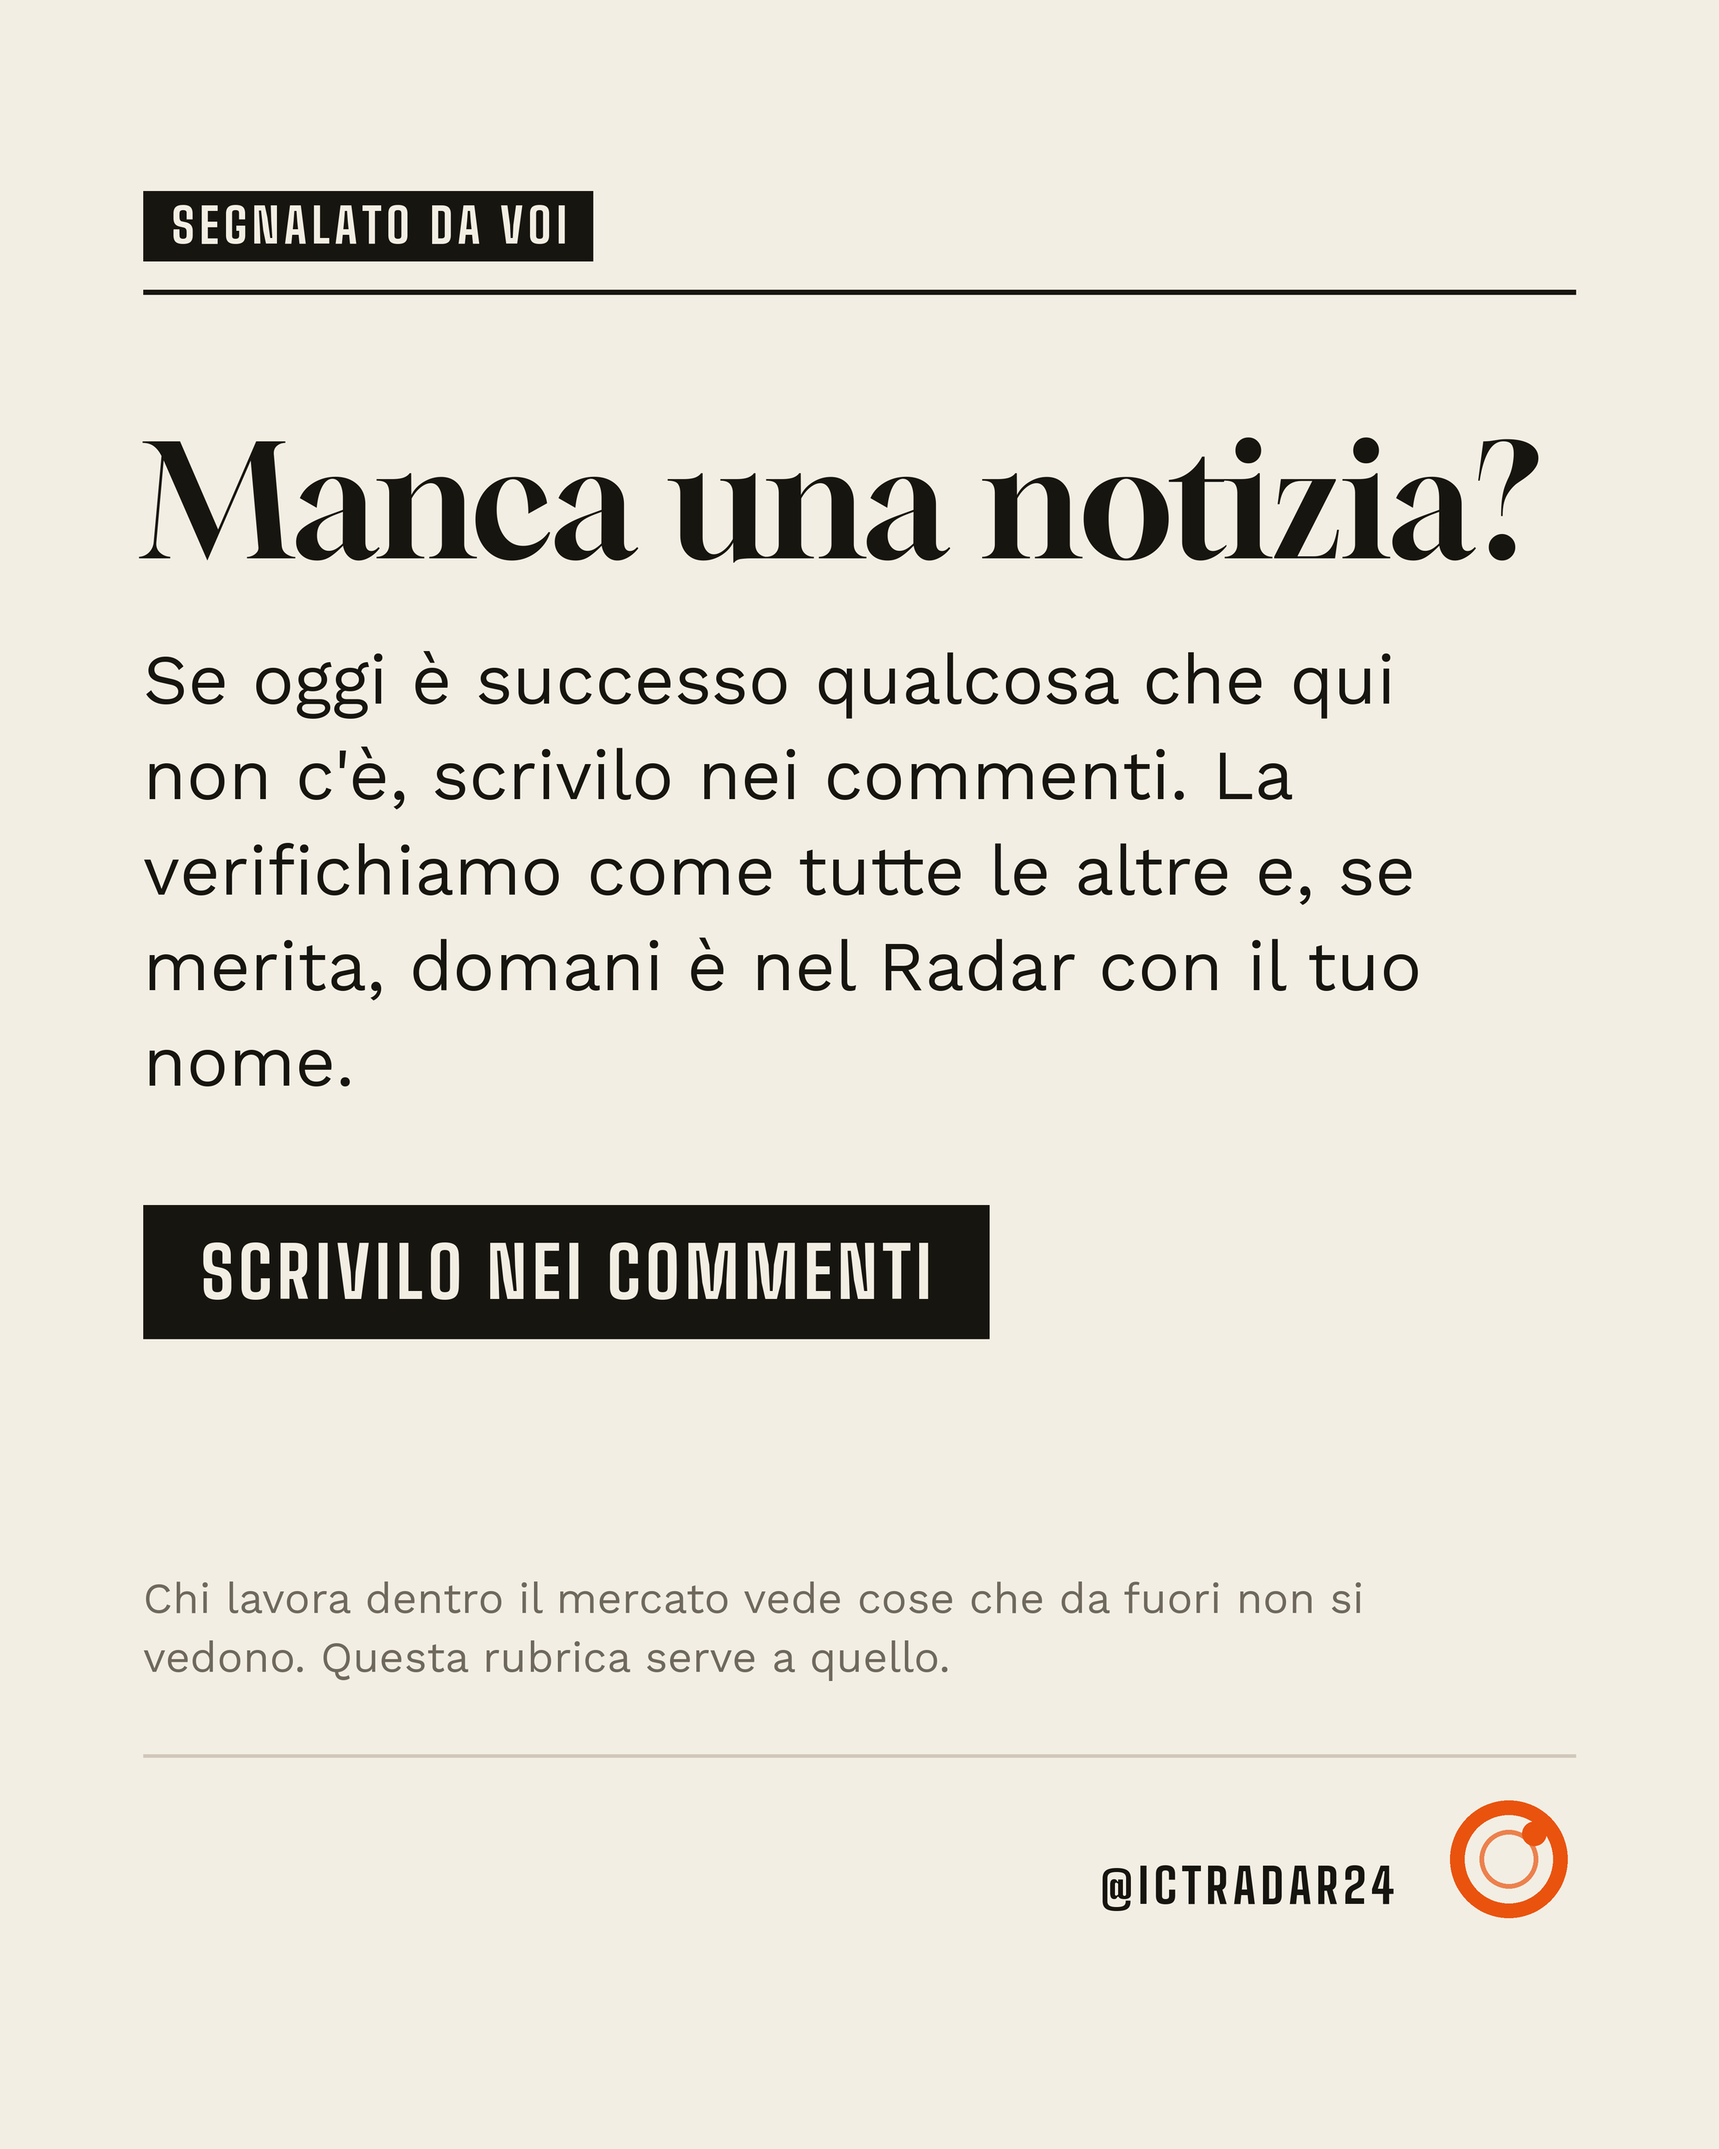
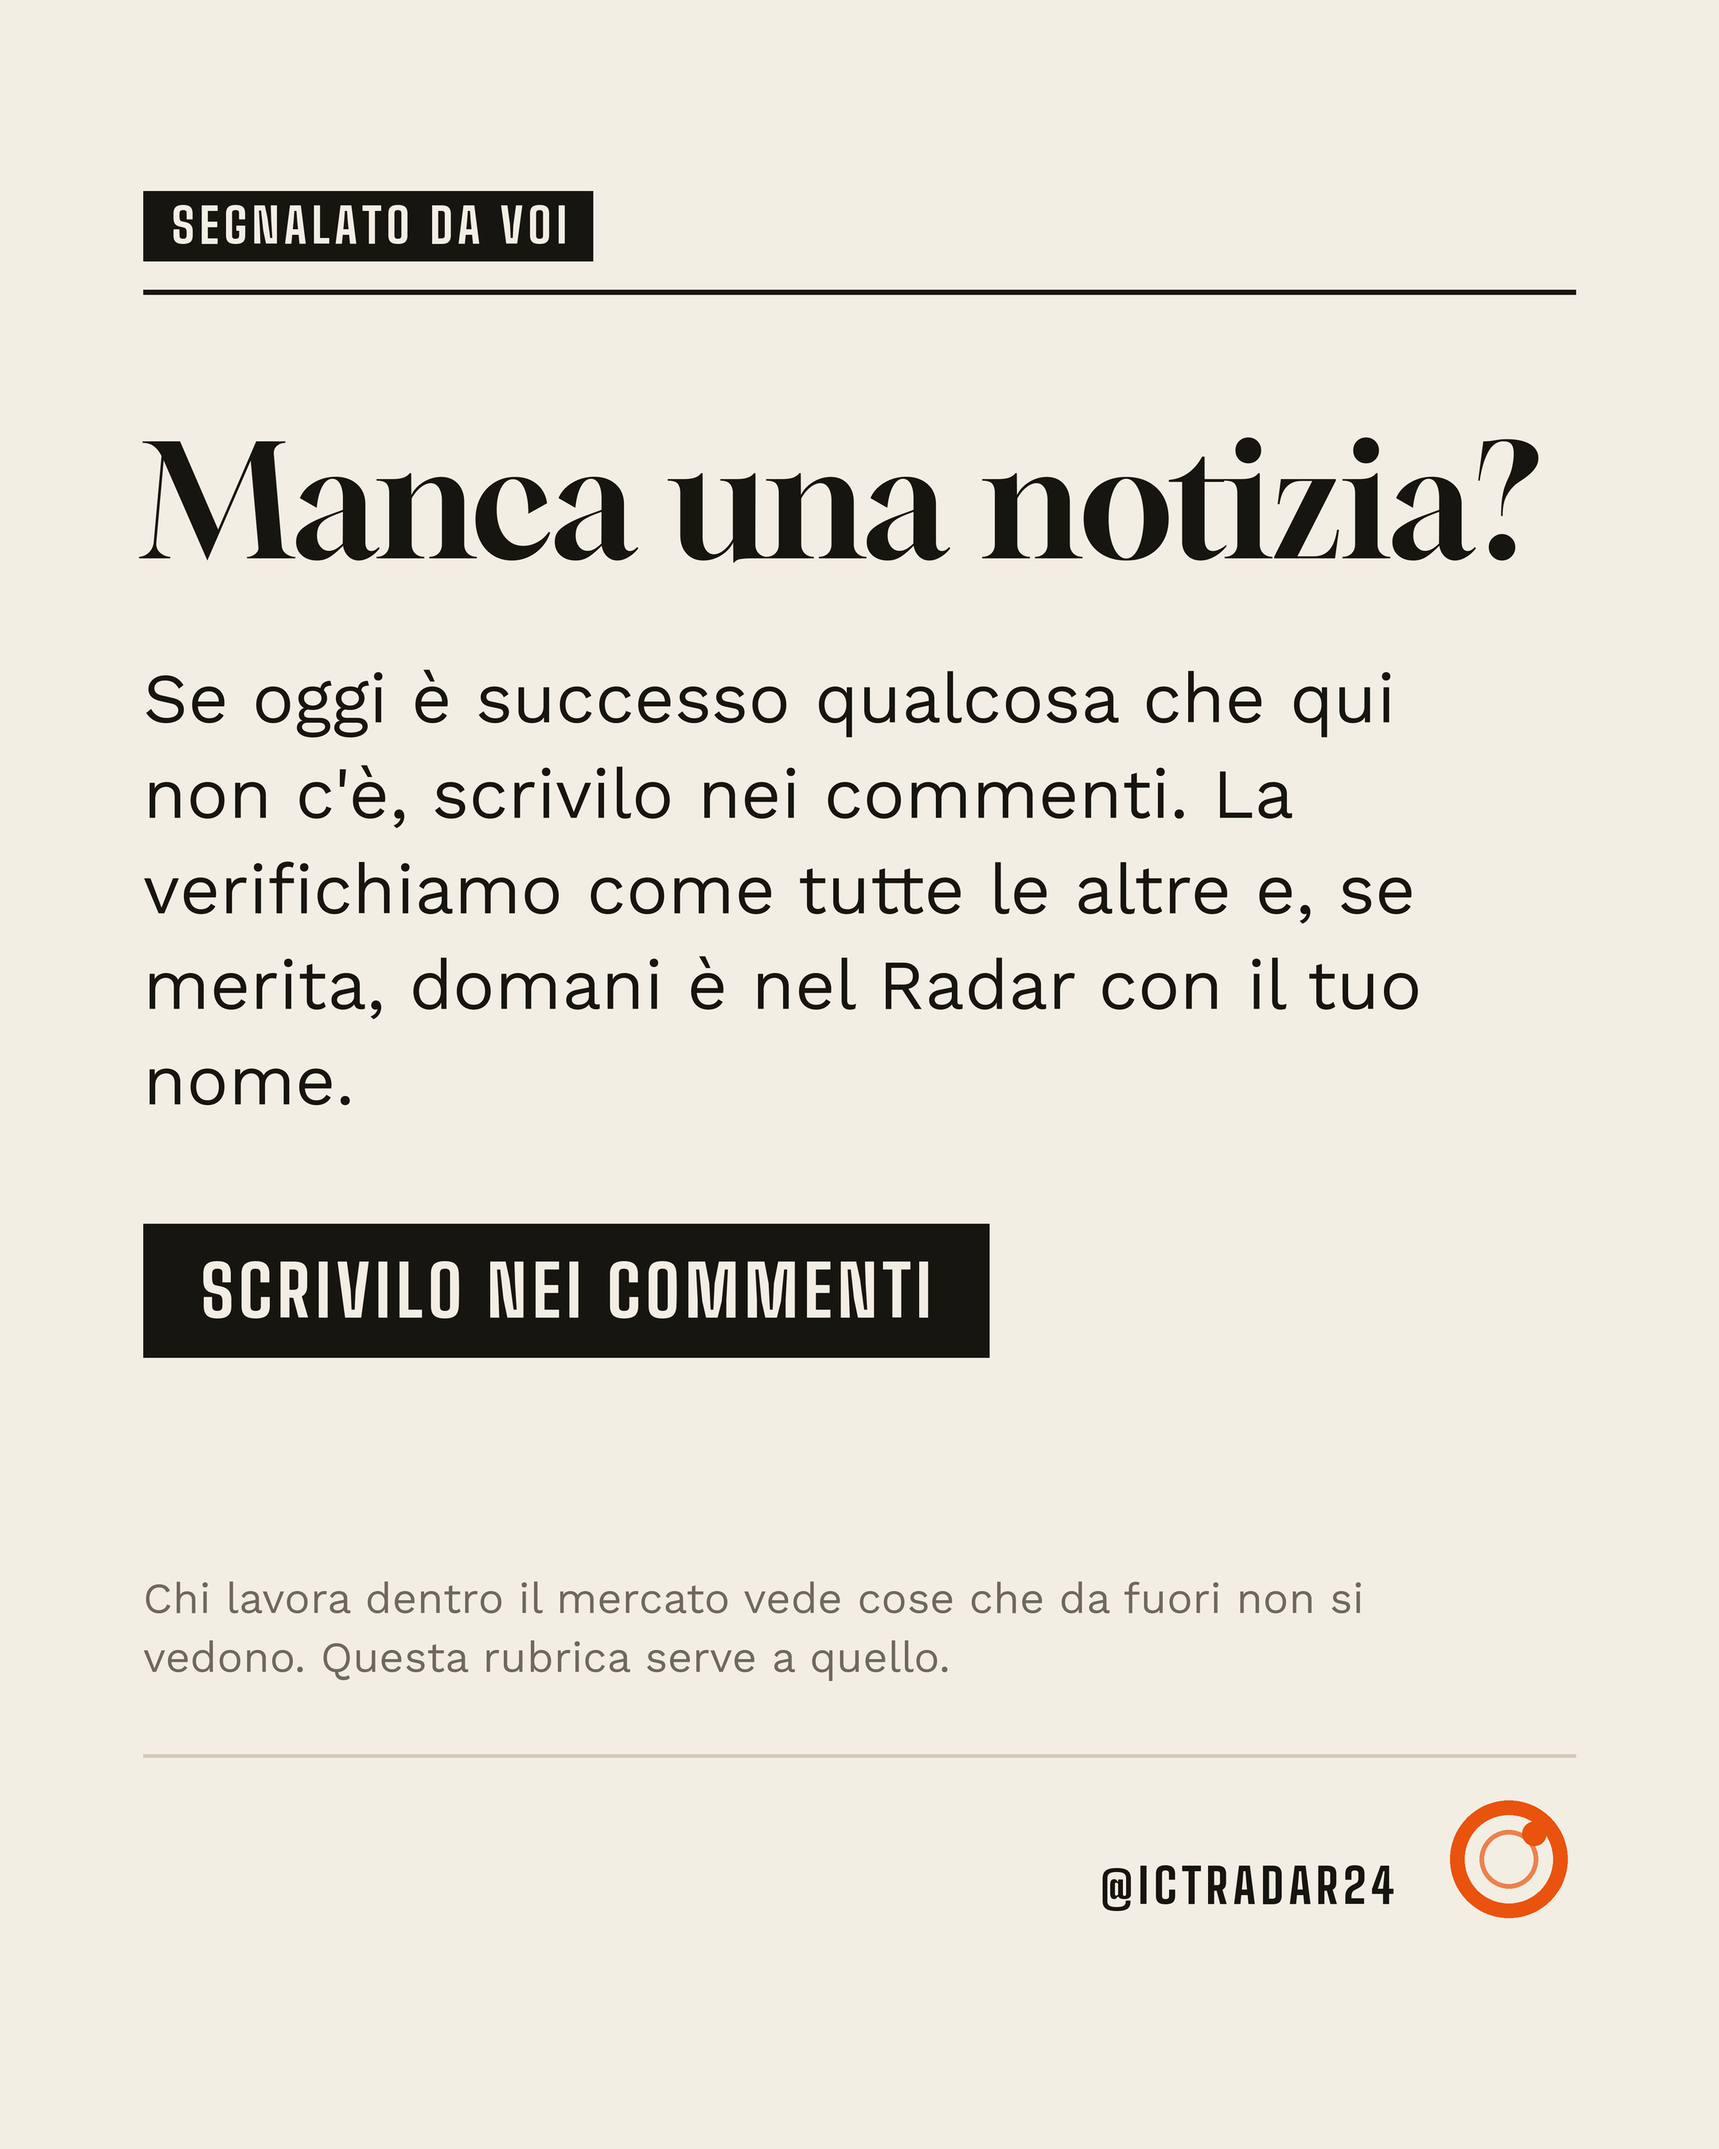
Interlinea 1,12 su tutti i titoli in Gloock (notizia, perché conta, elenco, premi, Storie, slide fisse), chiesta da Simone il 14 ottobre 2026; le tre slide fisse rigenerate
Claude-Session: https://claude.ai/code/session_018CrmJyZQhGDfkLWdLMVYHp

Changed region(s): [[0.0931, 0.3111, 0.8375, 0.5289], [0.0931, 0.56, 0.5894, 0.6533]]

diff --git a/produzione/render.py b/produzione/render.py
@@ -74,6 +74,12 @@ STORIA = dict(W=1080, H=1920, ML=90, MT=300, MB=360)
 USCITA = 2
 SS = 2 * USCITA  # si disegna a 4x e si riduce a 2x, per bordi netti
 
+# Interlinea di tutti i titoli in Gloock (brand book §5). Era 1,03-1,06 a seconda
+# della slide; il 13 ottobre 2026 Simone ha portato l'hook di copertina a 1,12
+# perché a 1,03 risultava schiacciato, e il 14 ottobre ha chiesto lo stesso valore
+# su tutti gli altri titoli del carosello.
+INTERLINEA_TITOLO = 1.12
+
 # Le quattro posizioni del blip, su un marchio di lato 100 (brand book §5)
 BLIP = {"fuori": (98, 2), "rilevato": (69, 31), "vicino": (60, 40), "centro": (50, 50)}
 
@@ -349,7 +355,7 @@ def slide_copertina(s, fmt, rub, n, tot, chiave):
     limite = y_piede - 30 - h_basso
     corpi = [s.get("corpo_hook")] if s.get("corpo_hook") else [92, 86, 80, 74, 68, 62]
     # interlinea dell'hook 1,12 dal 13 ottobre 2026, scelta da Simone su Radar Italia: a 1,03 il titolo risultava schiacciato
-    c, inter = adatta(d, s["hook"], TESTATA, corpi, 1.12, maxw, limite - y - 40)
+    c, inter = adatta(d, s["hook"], TESTATA, corpi, INTERLINEA_TITOLO, maxw, limite - y - 40)
     col_hook = INK
     y = blocco(d, ml, y, s["hook"], f(TESTATA, c), col_hook, inter, maxw)
     if not righe_basso and s.get("sottotitolo"):
@@ -397,7 +403,7 @@ def slide_voce(s, fmt, rub, n, tot, chiave):
     if sotto:
         h_sotto = 40 + altezza(d, sotto, fs, 48, maxw - 100)
     corpi = [s.get("corpo_hook")] if s.get("corpo_hook") else [72, 66, 60, 54, 48]
-    c, inter = adatta(d, s["hook"], TESTATA, corpi, 1.12, maxw, y_piede - 30 - h_sotto - y)
+    c, inter = adatta(d, s["hook"], TESTATA, corpi, INTERLINEA_TITOLO, maxw, y_piede - 30 - h_sotto - y)
     y = blocco(d, ml, y, s["hook"], f(TESTATA, c), CARTA, inter, maxw)
     if sotto:
         blocco(d, ml, y + 40, sotto, fs, CARTA_2, 48, maxw - 100)
@@ -419,7 +425,7 @@ def slide_notizia(s, fmt, rub, n, tot, chiave):
         h_d = c_d * 0.92 + 34 + 4
         fc = f(TESTO, 38); inter_c = 54
         h_c = altezza(d, s["corpo"], fc, inter_c, maxw) + 30
-        c, inter = adatta(d, s["titolo"], TESTATA, [64, 58, 52, 46], 1.06, maxw, y_piede - 24 - y - h_d - h_c)
+        c, inter = adatta(d, s["titolo"], TESTATA, [64, 58, 52, 46], INTERLINEA_TITOLO, maxw, y_piede - 24 - y - h_d - h_c)
         y = blocco(d, ml, y, s["titolo"], f(TESTATA, c), col_t, inter, maxw)
         y += 34
         d.text(((ml - 4) * SS, (y + c_d * 0.74) * SS), dato, font=fd, fill=SEG, anchor="ls")
@@ -428,7 +434,7 @@ def slide_notizia(s, fmt, rub, n, tot, chiave):
     else:
         fc = f(TESTO, 42); inter_c = 59
         h_c = altezza(d, s["corpo"], fc, inter_c, maxw) + 44
-        c, inter = adatta(d, s["titolo"], TESTATA, [76, 70, 64, 58, 52], 1.05, maxw, y_piede - 24 - y - h_c)
+        c, inter = adatta(d, s["titolo"], TESTATA, [76, 70, 64, 58, 52], INTERLINEA_TITOLO, maxw, y_piede - 24 - y - h_c)
         y = blocco(d, ml, y, s["titolo"], f(TESTATA, c), col_t, inter, maxw)
         blocco(d, ml, y + 44, s["corpo"], fc, col_t, inter_c, maxw)
     fonte = s.get("fonte", "")
@@ -451,7 +457,7 @@ def slide_perche(s, fmt, rub, n, tot, chiave):
         folio(d, fmt, n, tot, INK)
     y = filetto(d, fmt, fmt["MT"] + 44 + 18, "semplice", INK) + 44
     y_piede = fmt["H"] - fmt["MB"] - 108
-    c, inter = adatta(d, s["testo"], TESTATA, [70, 64, 58, 52, 46], 1.1, maxw, y_piede - 30 - y)
+    c, inter = adatta(d, s["testo"], TESTATA, [70, 64, 58, 52, 46], INTERLINEA_TITOLO, maxw, y_piede - 30 - y)
     blocco(d, ml, y, s["testo"], f(TESTATA, c), CARTA, inter, maxw)
     piede(d, fmt, INK, "vicino", testo="La lettura della redazione, a partire dai fatti qui sopra.")
     return img
@@ -466,7 +472,7 @@ def slide_elenco(s, fmt, rub, n, tot, chiave):
     col_t = CARTA if campo == INK else INK
     col_s = CARTA_2 if campo == INK else PIOMBO
     if s.get("titolo"):
-        y = blocco(d, ml, y, s["titolo"], f(TESTATA, 72), col_t, 78, maxw)
+        y = blocco(d, ml, y, s["titolo"], f(TESTATA, 72), col_t, 72 * INTERLINEA_TITOLO, maxw)
         if s.get("sottotitolo"):
             spaziato(d, ml, y + 30, s["sottotitolo"].upper(), f(TAB_R, 28), col_s, 2.4)
             y += 50
@@ -504,7 +510,7 @@ def slide_premio(s, fmt, rub, n, tot, chiave):
     fv = f(TESTATA, 150)
     for r in wrap(d, s["vincitore"], fv, maxw):
         d.text((ml * SS, (y + 150 * 0.75) * SS), r, font=fv, fill=SEG, anchor="ls")
-        y += 150 * 0.95
+        y += 150 * INTERLINEA_TITOLO
     if s.get("nota"):
         blocco(d, ml, y + 34, s["nota"], f(TESTO, 38), INK, 54, maxw - 100)
     piede(d, fmt, CARTA, "rilevato", testo=s.get("fonte"), etichetta=("Fonte" if s.get("fonte") else None))
@@ -515,7 +521,7 @@ def slide_nonassegnati(s, fmt, rub, n, tot, chiave):
     img, d = canvas(fmt, CARTA)
     ml, maxw = fmt["ML"], fmt["W"] - fmt["ML"] * 2
     y = intestazione(d, fmt, rub, s, n, tot, CARTA)
-    y = blocco(d, ml, y, s["titolo"], f(TESTATA, 64), INK, 68, maxw)
+    y = blocco(d, ml, y, s["titolo"], f(TESTATA, 64), INK, 64 * INTERLINEA_TITOLO, maxw)
     y += 40
     for v in s["voci"]:
         d.rectangle([ml * SS, y * SS, (fmt["W"] - ml) * SS, (y + 2) * SS], fill=FILO)
@@ -584,7 +590,7 @@ def slide_storia(s, fmt, rub, n, tot, chiave):
         fd = f(TESTATA, c_d)
         fc = f(TESTO, 42); inter_c = 59
         h_c = altezza(d, s["corpo"], fc, inter_c, maxw) + 34
-        c, inter = adatta(d, s["titolo"], TESTATA, [72, 66, 60, 54], 1.06, maxw, y_piede - 30 - y - (c_d * 0.92 + 40) - h_c)
+        c, inter = adatta(d, s["titolo"], TESTATA, [72, 66, 60, 54], INTERLINEA_TITOLO, maxw, y_piede - 30 - y - (c_d * 0.92 + 40) - h_c)
         y = blocco(d, ml, y, s["titolo"], f(TESTATA, c), col_t, inter, maxw)
         y += 40
         d.text(((ml - 4) * SS, (y + c_d * 0.74) * SS), dato, font=fd, fill=SEG, anchor="ls")
@@ -593,7 +599,7 @@ def slide_storia(s, fmt, rub, n, tot, chiave):
     else:
         fc = f(TESTO, 44); inter_c = 62
         h_c = altezza(d, s["corpo"], fc, inter_c, maxw) + 48
-        c, inter = adatta(d, s["titolo"], TESTATA, [84, 76, 70, 64, 58], 1.05, maxw, y_piede - 30 - y - h_c)
+        c, inter = adatta(d, s["titolo"], TESTATA, [84, 76, 70, 64, 58], INTERLINEA_TITOLO, maxw, y_piede - 30 - y - h_c)
         y = blocco(d, ml, y, s["titolo"], f(TESTATA, c), col_t, inter, maxw)
         blocco(d, ml, y + 48, s["corpo"], fc, col_t, inter_c, maxw)
     fonte = s.get("fonte", "")
@@ -629,12 +635,12 @@ def slide_segui(s, fmt, rub, n, tot, chiave):
     for tit in corpi_tit:
         f_tit, f_cta = f(TESTATA, tit), f(TESTATA, min(56, tit - 8))
         i_cta = min(62, tit - 8) * 1.1
-        h = (altezza(d, s["titolo"], f_tit, tit * 1.02, maxw) + g1
+        h = (altezza(d, s["titolo"], f_tit, tit * INTERLINEA_TITOLO, maxw) + g1
              + altezza(d, s["corpo"], f_corpo, i_corpo, maxw - 120) + g2
              + altezza(d, s["cta"], f_cta, i_cta, maxw) + (g3 + h_bottone if h_bottone else 0))
         if y0 + h <= y_f - 40:
             break
-    y = blocco(d, ml, y0, s["titolo"], f_tit, CARTA, tit * 1.02, maxw)
+    y = blocco(d, ml, y0, s["titolo"], f_tit, CARTA, tit * INTERLINEA_TITOLO, maxw)
     y = blocco(d, ml, y + g1, s["corpo"], f_corpo, INK, i_corpo, maxw - 120)
     y = blocco(d, ml, y + g2, s["cta"], f_cta, CARTA, i_cta, maxw)
     if s.get("bottone"):
@@ -679,12 +685,12 @@ def slide_segnala(s, fmt, rub, n, tot, chiave):
     h_bottone = 84 if s.get("bottone") else 0
     for tit in corpi_tit:
         f_tit = f(TESTATA, tit)
-        h = (altezza(d, s["titolo"], f_tit, tit * 1.0, maxw) + g1
+        h = (altezza(d, s["titolo"], f_tit, tit * INTERLINEA_TITOLO, maxw) + g1
              + altezza(d, s["corpo"], f_corpo, i_corpo, maxw - 60)
              + ((g2 + h_bottone) if h_bottone else 0))
         if y0 + h <= y_nota - 60:
             break
-    y = blocco(d, ml, y0, s["titolo"], f_tit, INK, tit * 1.0, maxw)
+    y = blocco(d, ml, y0, s["titolo"], f_tit, INK, tit * INTERLINEA_TITOLO, maxw)
     y = blocco(d, ml, y + g1, s["corpo"], f_corpo, INK, i_corpo, maxw - 60)
     if s.get("bottone"):
         t = s["bottone"].upper()
